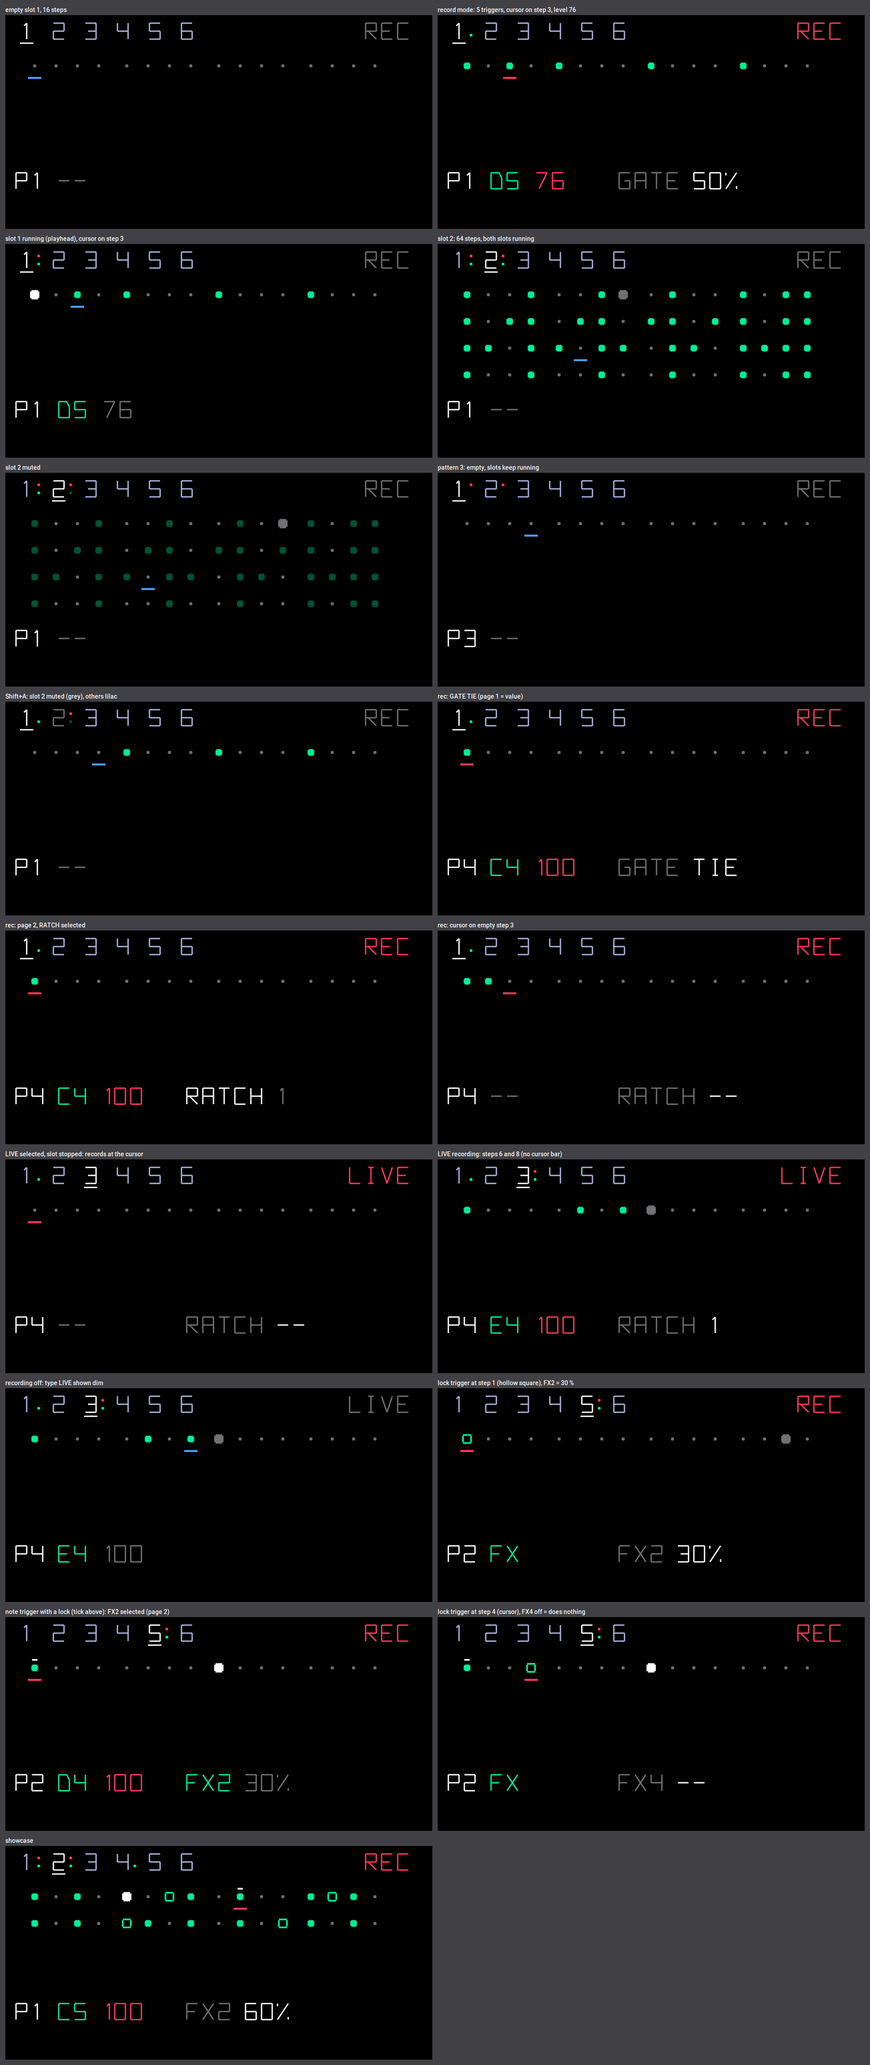
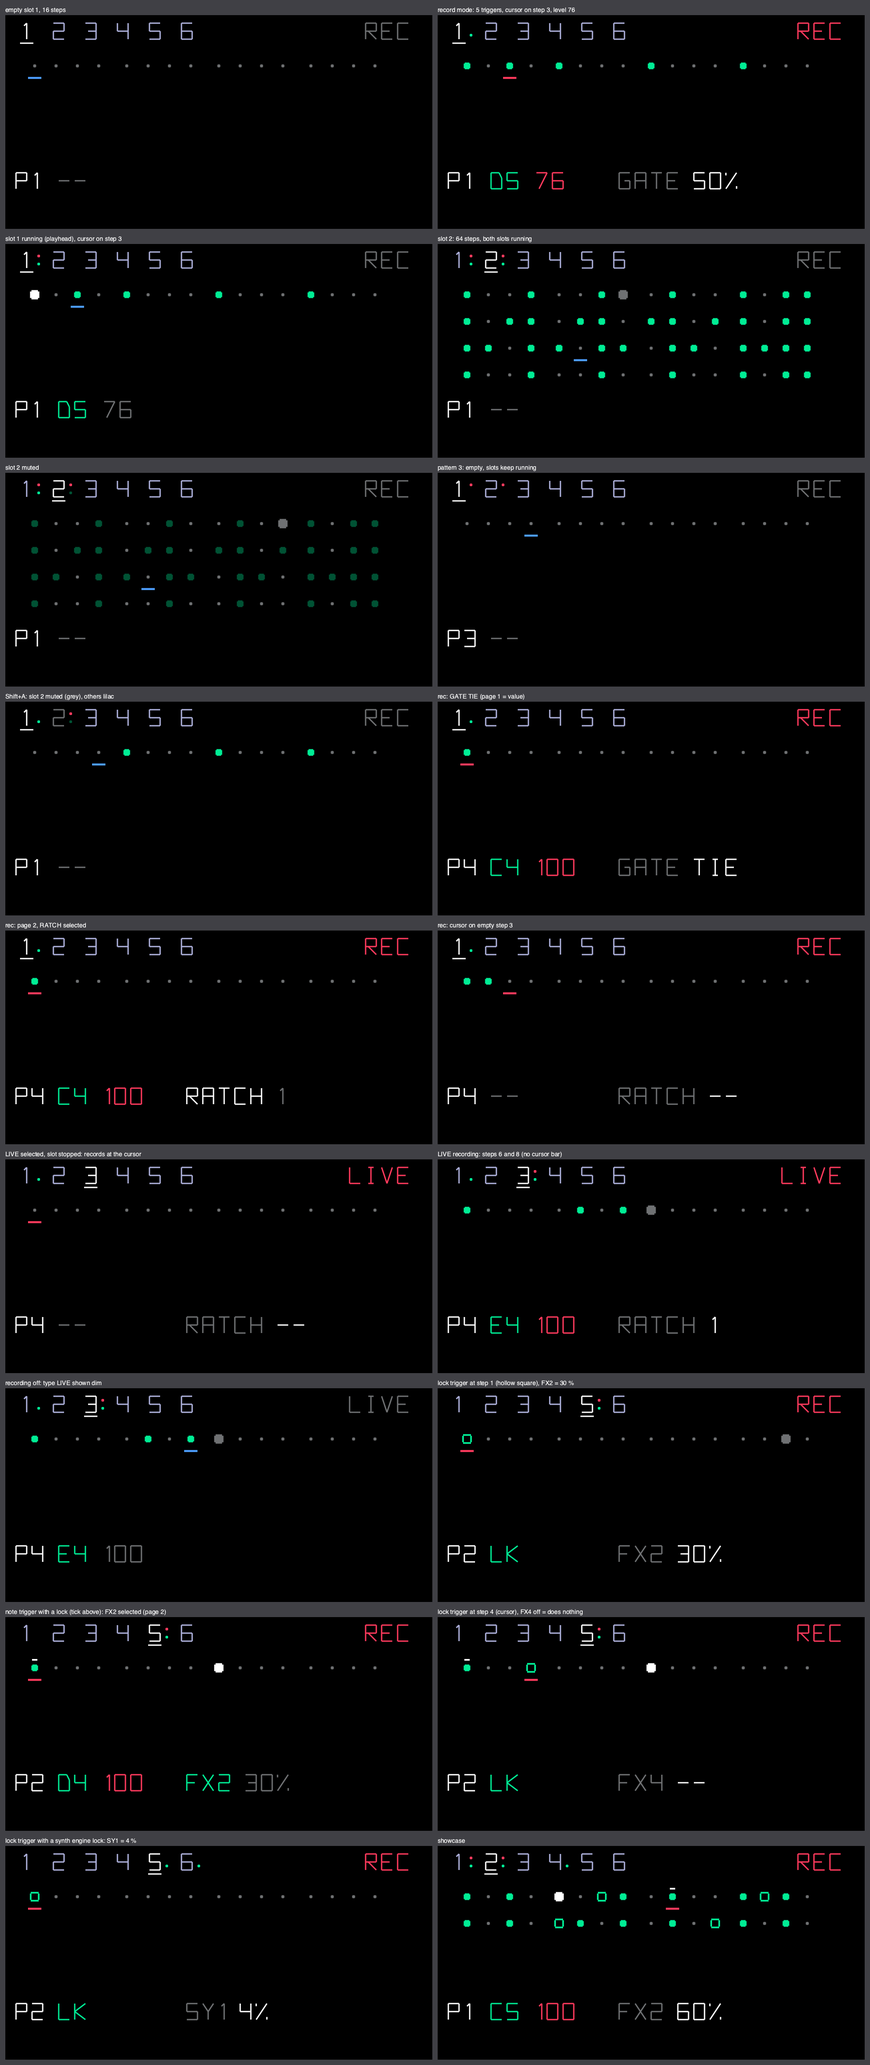
dots: synth engine parameter locks (SY1-SY4)
SY1-SY4 in the white parameter list set knob 1-4 of the instrument's synth
engine for a step, like the FX locks (synth mode only). Only the live knob
word is written, never the patch; sample start / end knobs are skipped.
Saved in a separate text (S1), older saves load unchanged. The info line of
a lock trigger shows LK instead of FX.

Changed region(s): [[0.499, 0.8693, 0.998, 1.0], [0.2807, 0.9625, 0.3119, 0.9935], [0.0312, 0.9004, 0.0624, 0.9314]]

diff --git a/synth_sdk/seq/dots.c b/synth_sdk/seq/dots.c
@@ -31,6 +31,8 @@
  *   fx1..4  parameter locks: -- (off, default) or 0..100 % for knob 1..4 (blue..red) of the mode's instrument FX.
  *           When the step plays (chance / cond / nudge apply) the knob jumps to the value; it reverts to the knob's own
  *           setting after the gate (% of a step; TIE: until the slot's next trigger). Last lock wins a shared knob.
+ *   sy1..4  the same for knob 1..4 of the synth engine of the instrument (synth mode only; not in drum mode). Knobs of
+ *           an engine without a plain range (sample start / end) are not locked.
  * Lock triggers (no note): blue press in record mode on an empty step creates one (all locks off = does nothing
  * until a lock is set), on a lock trigger removes it. A key on a lock trigger adds a note and keeps the locks.
  * New triggers get the defaults (50 %, 1, 100 %, ALL, 0, OFF); recording over a trigger only changes its note.
@@ -47,13 +49,17 @@
 #define DT_TIE      101                                 /* gate value: hold until the next note */
 #define DT_NONOTE   0xFF                                /* note of a lock trigger (no note) */
 #define DT_NFX      4                                   /* locks: instrument FX knobs 1..4 */
-enum { DT_P_GATE, DT_P_RATCH, DT_P_CHANCE, DT_P_COND, DT_P_NUDGE, DT_P_RAMP, DT_P_FX1, DT_NPARAMS = DT_P_FX1 + DT_NFX };
+#define DT_NSY      4                                   /* locks: synth engine knobs 1..4 (synth mode) */
+#define DT_NLK      (DT_NFX + DT_NSY)                   /* lock index: 0..3 FX, 4..7 synth engine */
+enum { DT_P_GATE, DT_P_RATCH, DT_P_CHANCE, DT_P_COND, DT_P_NUDGE, DT_P_RAMP, DT_P_FX1, DT_P_SY1 = DT_P_FX1 + DT_NFX,
+       DT_NPARAMS = DT_P_SY1 + DT_NSY };
+#define DT_NPAR(pos) ((pos) ? DT_P_SY1 : DT_NPARAMS)    /* drum mode has no synth engine */
 static const uint8_t dt_cond_ab[10][2] = { {0,0}, {1,2}, {2,2}, {1,3}, {2,3}, {3,3}, {1,4}, {2,4}, {3,4}, {4,4} };
 
 typedef struct {                                        /* vel 0 = no trigger */
     uint8_t note, key, vel, gate, ratch, chance, cond;
     int8_t  nudge, ramp;
-    uint8_t fx[DT_NFX];                                 /* 0 = off, 1..101 = 0..100 % */
+    uint8_t fx[DT_NLK];                                 /* 0 = off, 1..101 = 0..100 % */
 } dt_step_t;
 #define DT_STEP_BYTES 9                                 /* saved fields of the step row (locks: own row) */
 typedef struct {
@@ -63,7 +69,7 @@ typedef struct {
 typedef struct {                                        /* a decided step: its hits, in time order */
     uint8_t  on, ratch, j, note, key, vel, gate;        /* j: next hit */
     int8_t   ramp;
-    uint8_t  fx[DT_NFX];
+    uint8_t  fx[DT_NLK];
     int32_t  s;                                         /* step (counted from start) */
     uint64_t t0, sub;                                   /* first hit, hit spacing (Q16 ticks) */
 } dt_plan_t;
@@ -101,7 +107,7 @@ void host_dt_note_on(int pos, int note, int vel);
 void host_dt_note_off(int pos, int note);
 #define DT_NOTE_ON(pos, n, k, v) (host_dt_note_on((pos), (n), (v)), (n))
 #define DT_NOTE_OFF(pos, n)      host_dt_note_off((pos), (n))
-void host_dt_fx_lock(int pos, int knob, int pc);
+void host_dt_fx_lock(int pos, int knob, int pc);       /* knob: lock index 0..7 */
 void host_dt_fx_restore(int pos, int knob);
 #define DT_FX_LOCK(pos, k, pc)   host_dt_fx_lock((pos), (k), (pc))
 #define DT_FX_RESTORE(pos, k)    host_dt_fx_restore((pos), (k))
@@ -123,7 +129,7 @@ static dt_cfg_t *dt_q(dt_bank_t *b, int k) { return &b->pats[b->pat][k]; }
 static void dt_step_default(dt_step_t *s)
 {
     s->gate = 50; s->ratch = 1; s->chance = 100; s->cond = 0; s->nudge = 0; s->ramp = 0;
-    for (int i = 0; i < DT_NFX; i++) s->fx[i] = 0;
+    for (int i = 0; i < DT_NLK; i++) s->fx[i] = 0;
 }
 /* byte loops instead of struct copies: the firmware build has no memcpy / memset */
 static void dt_cfg_copy(dt_cfg_t *d, const dt_cfg_t *c)
@@ -148,17 +154,17 @@ static void dt_bank_init(dt_bank_t *b)
 }
 
 /* locks: the knob owner per mode (slot + 1); the base value is kept by the glue until the owner reverts */
-static uint8_t dt_lk_owner[2][DT_NFX];
+static uint8_t dt_lk_owner[2][DT_NLK];
 static void dt_unlock(int pos, int slot, dt_run_t *r)
 {
-    for (int i = 0; i < DT_NFX; i++)
+    for (int i = 0; i < DT_NLK; i++)
         if (r->locks >> i & 1 && dt_lk_owner[pos][i] == slot + 1) { DT_FX_RESTORE(pos, i); dt_lk_owner[pos][i] = 0; }
     r->locks = 0;
 }
 static void dt_lock(int pos, int slot, dt_run_t *r, const uint8_t *fx)
 {
-    for (int i = 0; i < DT_NFX; i++)
-        if (fx[i]) { DT_FX_LOCK(pos, i, fx[i] - 1); dt_lk_owner[pos][i] = (uint8_t)(slot + 1); r->locks |= (uint8_t)(1 << i); }
+    for (int i = 0; i < DT_NLK; i++)
+        if (fx[i] && !(pos && i >= DT_NFX)) { DT_FX_LOCK(pos, i, fx[i] - 1); dt_lk_owner[pos][i] = (uint8_t)(slot + 1); r->locks |= (uint8_t)(1 << i); }
 }
 static int dt_slot_of(int pos, const dt_run_t *r) { return (int)(r - dt[pos & 1].rt); }
 
@@ -222,7 +228,7 @@ static void dt_param_turn(dt_step_t *s, int par, int st)
     case DT_P_COND:   s->cond = (uint8_t)dt_clampi(s->cond + st, 0, 9); break;
     case DT_P_NUDGE:  s->nudge = (int8_t)dt_clampi(s->nudge + st, -12, 12); break;
     case DT_P_RAMP:   s->ramp = (int8_t)dt_clampi(s->ramp + st, -1, 1); break;
-    default: {                                          /* fx lock: off below 0 %, 2 % per detent */
+    default: {                                          /* fx / synth lock: off below 0 %, 2 % per detent */
         uint8_t *v = &s->fx[par - DT_P_FX1];
         int pc = *v ? *v - 1 : -1;
         pc = pc < 0 ? (st > 0 ? (st - 1) * 2 : -1) : pc + st * 2;
@@ -287,7 +293,7 @@ void dt_turn(int pos, int knob, int delta, int shift)
     }
     if (knob == 2) {                                    /* white, record mode: parameter value / selection */
         if (!b->rec) return;
-        if (b->page) { b->par = (uint8_t)((b->par + st % DT_NPARAMS + DT_NPARAMS) % DT_NPARAMS); return; }
+        if (b->page) { int n = DT_NPAR(pos & 1); b->par = (uint8_t)((b->par + st % n + n) % n); return; }
         dt_step_t *s = &q->st[b->cur[k]];
         if (s->vel) { dt_param_turn(s, b->par, st); DT_CHANGED(); }
         return;
@@ -433,8 +439,9 @@ void dt_clip(int pos, int op, int all)
 /* ---- persistence: one hex text per (mode, pattern): "v2" "pp ss" (current pattern, selected slot), then per slot
  * "len muted" + 64 steps x 9 fields (note key vel gate ratch chance cond nudge ramp, 2 hex digits each; "v2").
  * Old texts (no prefix, 3 fields: note key vel) still load with default parameters.
- * Parameter locks are a second text per (mode, pattern): "L1" + 6 slots x 64 steps x fx1..fx4 (3074 chars): the firmware
- * formats every SQL statement into an 8 KB buffer (db2.cpp, te_vsnprintf 0x2000), one text with both is too long. ---- */
+ * Parameter locks are a second text per (mode, pattern): "L1" + 6 slots x 64 steps x fx1..fx4 (3074 chars), the synth
+ * locks a third: "S1" + the same x sy1..sy4. The firmware formats every SQL statement into an 8 KB buffer (db2.cpp,
+ * te_vsnprintf 0x2000), one text with all of them is too long. ---- */
 #define DT_TEXT1_LEN (4 + DT_SLOTS * (4 + DT_STEPS * 6))
 #define DT_TEXT_LEN  (2 + 4 + DT_SLOTS * (4 + DT_STEPS * DT_STEP_BYTES * 2))
 #define DT_LOCK_LEN  (2 + DT_SLOTS * DT_STEPS * DT_NFX * 2)
@@ -495,27 +502,31 @@ int dt_parse(int pos, int p, const char *s, int len)    /* 0 = rejected (wrong s
     return 1;
 }
 
-int dt_serialize_locks(int pos, int p, char *out)       /* out: DT_LOCK_LEN + 1 */
+static int dt_ser_locks(int pos, int p, char *out, int f0, char tag)
 {
     dt_bank_t *b = &dt[pos & 1]; dt_bank_init(b);
-    char *o = out; *o++ = 'L'; *o++ = '1';
+    char *o = out; *o++ = tag; *o++ = '1';
     for (int k = 0; k < DT_SLOTS; k++)
         for (int i = 0; i < DT_STEPS; i++)
-            for (int f = 0; f < DT_NFX; f++) o = dt_hex(o, b->pats[p][k].st[i].fx[f]);
+            for (int f = f0; f < f0 + DT_NFX; f++) o = dt_hex(o, b->pats[p][k].st[i].fx[f]);
     *o = 0;
     return (int)(o - out);
 }
-int dt_parse_locks(int pos, int p, const char *s, int len)   /* after dt_parse of the same pattern */
+static int dt_parse_lk(int pos, int p, const char *s, int len, int f0, char tag)   /* after dt_parse of the same pattern */
 {
-    if (len != DT_LOCK_LEN || s[0] != 'L' || s[1] != '1' || p < 0 || p >= DT_PATS) return 0;
+    if (len != DT_LOCK_LEN || s[0] != tag || s[1] != '1' || p < 0 || p >= DT_PATS) return 0;
     for (int i = 2; i < len; i += 2) if (dt_unhex(s + i) < 0) return 0;
     dt_bank_t *b = &dt[pos & 1]; dt_bank_init(b);
     s += 2;
     for (int k = 0; k < DT_SLOTS; k++)
         for (int i = 0; i < DT_STEPS; i++)
-            for (int f = 0; f < DT_NFX; f++, s += 2) b->pats[p][k].st[i].fx[f] = (uint8_t)dt_clampi(dt_unhex(s), 0, 101);
+            for (int f = f0; f < f0 + DT_NFX; f++, s += 2) b->pats[p][k].st[i].fx[f] = (uint8_t)dt_clampi(dt_unhex(s), 0, 101);
     return 1;
 }
+int dt_serialize_locks(int pos, int p, char *out) { return dt_ser_locks(pos, p, out, 0, 'L'); }      /* out: DT_LOCK_LEN + 1 */
+int dt_parse_locks(int pos, int p, const char *s, int len) { return dt_parse_lk(pos, p, s, len, 0, 'L'); }
+int dt_serialize_sy(int pos, int p, char *out) { return dt_ser_locks(pos, p, out, DT_NFX, 'S'); }
+int dt_parse_sy(int pos, int p, const char *s, int len) { return dt_parse_lk(pos, p, s, len, DT_NFX, 'S'); }
 
 /* ---- clock: advance by inc ticks (Q16, 24 per beat) ----
  * Each step is decided half a step before its grid time (nudge reaches half a step early): cond (loop of the slot),
@@ -538,7 +549,7 @@ static void dt_decide(dt_run_t *r, const dt_cfg_t *q, int32_t s, uint64_t grid)
     p->t0 = t0 < 0 ? 0 : (uint64_t)t0; p->sub = L / t->ratch;
     p->ratch = t->ratch; p->j = 0; p->note = t->note; p->key = t->key; p->vel = t->vel; p->gate = t->gate;
     p->ramp = t->ramp; p->s = s; p->on = 1;
-    for (int i = 0; i < DT_NFX; i++) p->fx[i] = t->fx[i];
+    for (int i = 0; i < DT_NLK; i++) p->fx[i] = t->fx[i];
 }
 
 static void dt_advance(int pos, uint64_t inc)
@@ -645,7 +656,7 @@ static void dt_screen_draw(void *r, int pos)
         const dt_step_t *s = &q->st[i];
         int32_t x = dt_x(i), y = dt_y(i);
         int lk = s->vel && s->note == DT_NONOTE, any = 0;
-        for (int f = 0; f < DT_NFX; f++) any |= s->fx[f];
+        for (int f = 0; f < DT_NLK; f++) any |= s->fx[f];
         const uint8_t *c = q->muted ? dt_dimgreen : dt_green;
         if (i == play) c = s->vel && !q->muted ? dt_white : dt_grey;
         if (lk) {                                       /* lock trigger: hollow square */
@@ -665,7 +676,7 @@ static void dt_screen_draw(void *r, int pos)
     sf_text(r, OP1_Q10(DT_PAT_X), OP1_Q10(DT_INFO_Y), OP1_Q10(2), t, 0x400, dt_white);
     const dt_step_t *s = &q->st[b->cur[k]];
     int lks = s->vel && s->note == DT_NONOTE;
-    if (lks) { t[0] = 'F'; t[1] = 'X'; t[2] = 0; }
+    if (lks) { t[0] = 'L'; t[1] = 'K'; t[2] = 0; }
     else if (s->vel) dnote(t, s->note); else { t[0] = '-'; t[1] = '-'; t[2] = 0; }
     int32_t nx = sf_text(r, OP1_Q10(DT_NOTE_X), OP1_Q10(DT_INFO_Y), OP1_Q10(2), t, 0x400, s->vel ? dt_green : dt_grey);
     if (s->vel && !lks) { dnum(t, s->vel); sf_text(r, nx + OP1_Q10(10), OP1_Q10(DT_INFO_Y), OP1_Q10(2), t, 0x400, b->rec ? dt_col[3] : dt_grey); }
@@ -676,10 +687,10 @@ static void dt_screen_draw(void *r, int pos)
         sf_text(r, OP1_Q10(b->live ? DT_REC_X - 12 : DT_REC_X), OP1_Q10(DT_SLOT_Y), OP1_Q10(2),
                 b->live ? "LIVE" : "REC", 0x400, dt_col[3]);
         static const char *const names[DT_NPARAMS] = { "GATE", "RATCH", "CHANCE", "COND", "NUDGE", "RAMP",
-                                                       "FX1", "FX2", "FX3", "FX4" };
-        int fxp = b->par >= DT_P_FX1;                   /* fx names in their knob colour on page 2 */
+                                                       "FX1", "FX2", "FX3", "FX4", "SY1", "SY2", "SY3", "SY4" };
+        int fxp = b->par >= DT_P_FX1;                   /* lock names in their knob colour on page 2 */
         int32_t px = sf_text(r, OP1_Q10(DT_PAR_X), OP1_Q10(DT_INFO_Y), OP1_Q10(2), names[b->par], 0x400,
-                             b->page ? (fxp ? dt_col[b->par - DT_P_FX1] : dt_white) : dt_grey);
+                             b->page ? (fxp ? dt_col[(b->par - DT_P_FX1) & 3] : dt_white) : dt_grey);
         char *e = t; t[0] = '-'; t[1] = '-'; t[2] = 0;
         if (s->vel) switch (b->par) {
             case DT_P_GATE:   if (s->gate == DT_TIE) { t[0] = 'T'; t[1] = 'I'; t[2] = 'E'; t[3] = 0; }
@@ -736,24 +747,48 @@ extern volatile uint8_t eu_rec_play;                    /* seq/euclid.c, handled
 #define DT_DRUM_OCT()  (((const int *)0x01DFE500)[*(volatile int *)0xFF8016D8 & 7])
 /* parameter locks on the instrument FX of the mode (docs/17): knob words synth 0xFF801444 / drum 0xFF8015C4 + slot*16,
  * FX type synth 0xFF801734[slot] / drum 0xFF801754[slot], raw range per type/knob in the table 0x01DE5C50 + type*0x30 +
- * knob*6 {min, max, ?} (filled at boot; read_fx_param asserts outside it, so values always stay in [min, max]). */
-static int16_t *dt_lk_ptr[2][DT_NFX];
-static int16_t  dt_lk_base[2][DT_NFX];
+ * knob*6 {min, max, ?} (filled at boot; read_fx_param asserts outside it, so values always stay in [min, max]).
+ * Synth engine locks (lock index 4..7, synth mode): knob words 0xFF8013C4 + slot*16, engine 0xFF8016E4[slot], range
+ * 0x01DE5890 + engine*0x40 + knob*8 {min, max, scale, mode} (as midi/mx.c; mode 2 / 3 = linked sample start / end:
+ * not locked). Only the live word is written, not the patch (set_knobs), so a lock is never saved with the sound;
+ * the base is restored the same way. The words are reloaded from the patch on an instrument switch. */
+static int16_t *dt_lk_ptr[2][DT_NLK];
+static int16_t  dt_lk_base[2][DT_NLK];
+static int      dt_lk_eng[DT_NSY], dt_lk_slot[DT_NSY];  /* engine / slot of the synth word when its base was taken */
 static void dt_fw_fx_lock(int pos, int knob, int pc)
 {
     int slot = *(volatile int *)(pos ? 0xFF8016D8 : 0xFF8016D4) & 7;
-    int type = ((volatile int *)(pos ? 0xFF801754 : 0xFF801734))[slot];
-    if (type < 0 || type > 7) return;
-    const int16_t *rg = (const int16_t *)(0x01DE5C50 + type * 0x30 + knob * 6);
-    int lo = rg[0], hi = rg[1];
+    int16_t *w; int lo, hi, eng = 0;
+    if (knob >= DT_NFX) {                               /* synth engine knob */
+        if (pos) return;
+        eng = ((volatile int *)0xFF8016E4)[slot];
+        if (eng < 0 || eng > 31) return;
+        const int16_t *rg = (const int16_t *)(0x01DE5890 + eng * 0x40 + (knob - DT_NFX) * 8);
+        if (rg[3] != 0 && rg[3] != 1) return;
+        lo = rg[0]; hi = rg[1];
+        w = (int16_t *)(0xFF8013C4 + slot * 16) + (knob - DT_NFX);
+    } else {
+        int type = ((volatile int *)(pos ? 0xFF801754 : 0xFF801734))[slot];
+        if (type < 0 || type > 7) return;
+        const int16_t *rg = (const int16_t *)(0x01DE5C50 + type * 0x30 + knob * 6);
+        lo = rg[0]; hi = rg[1];
+        w = (int16_t *)((pos ? 0xFF8015C4 : 0xFF801444) + slot * 16) + knob;
+    }
     if (hi <= lo) return;                               /* table not filled */
-    int16_t *w = (int16_t *)((pos ? 0xFF8015C4 : 0xFF801444) + slot * 16) + knob;
-    if (!dt_lk_ptr[pos][knob]) { dt_lk_ptr[pos][knob] = w; dt_lk_base[pos][knob] = *w; }   /* first lock: keep base */
+    if (dt_lk_ptr[pos][knob] && (dt_lk_ptr[pos][knob] != w || (knob >= DT_NFX && dt_lk_eng[knob - DT_NFX] != eng)))
+        dt_lk_ptr[pos][knob] = 0;                       /* another slot / engine since: the old base is stale */
+    if (!dt_lk_ptr[pos][knob]) {                        /* first lock: keep base */
+        dt_lk_ptr[pos][knob] = w; dt_lk_base[pos][knob] = *w;
+        if (knob >= DT_NFX) { dt_lk_eng[knob - DT_NFX] = eng; dt_lk_slot[knob - DT_NFX] = slot; }
+    }
     *w = (int16_t)(lo + (hi - lo) * pc / 100);
 }
 static void dt_fw_fx_restore(int pos, int knob)
 {
-    if (dt_lk_ptr[pos][knob]) { *dt_lk_ptr[pos][knob] = dt_lk_base[pos][knob]; dt_lk_ptr[pos][knob] = 0; }
+    if (!dt_lk_ptr[pos][knob]) return;
+    if (knob < DT_NFX || ((volatile int *)0xFF8016E4)[dt_lk_slot[knob - DT_NFX]] == dt_lk_eng[knob - DT_NFX])
+        *dt_lk_ptr[pos][knob] = dt_lk_base[pos][knob];  /* (the engine of that slot changed meanwhile: base no longer valid) */
+    dt_lk_ptr[pos][knob] = 0;
 }
 
 static int dt_nop(void *self) { (void)self; return 0; }
@@ -800,14 +835,15 @@ static void dt_bg_save(void *self)                      /* saver thread */
     (void)self;
     void *db = DT_DB_HANDLE();
     DT_DB_EXEC(db, DT_CREATE);
-    for (int id = 0; id < 4 * DT_PATS; id++) {          /* id = mode * 4 + pattern (steps), + 8 (locks) */
+    for (int id = 0; id < 6 * DT_PATS; id++) {          /* id = mode * 4 + pattern (steps), + 8 (fx locks), + 16 (synth locks) */
         static const char head[] = "INSERT OR REPLACE INTO dotsseq VALUES (";
         char *o = dt_sql;
         for (const char *h = head; *h; h++) *o++ = *h;
-        if (id >= 10) *o++ = '1';
+        if (id >= 10) *o++ = (char)('0' + id / 10);
         *o++ = (char)('0' + id % 10); *o++ = ','; *o++ = '\'';
         int m = id % (2 * DT_PATS);
-        o += id < 2 * DT_PATS ? dt_serialize(m / DT_PATS, m % DT_PATS, o) : dt_serialize_locks(m / DT_PATS, m % DT_PATS, o);
+        o += id < 2 * DT_PATS ? dt_serialize(m / DT_PATS, m % DT_PATS, o)
+           : id < 4 * DT_PATS ? dt_serialize_locks(m / DT_PATS, m % DT_PATS, o) : dt_serialize_sy(m / DT_PATS, m % DT_PATS, o);
         *o++ = '\''; *o++ = ')'; *o = 0;
         op1_db_write(db, dt_sql);                       /* (no assert: long statement, docs/17) */
     }
@@ -820,7 +856,7 @@ static void dt_load(void)
 {
     void *db = DT_DB_HANDLE();
     DT_DB_EXEC(db, DT_CREATE);
-    for (int id = 0; id < 4 * DT_PATS; id++) {          /* steps first (ids 0..7), then their locks (8..15) */
+    for (int id = 0; id < 6 * DT_PATS; id++) {          /* steps first (ids 0..7), then their locks (8..15, 16..23) */
         static char q[] = "SELECT data FROM dotsseq WHERE id=00";
         q[sizeof q - 3] = (char)('0' + id / 10); q[sizeof q - 2] = (char)('0' + id % 10);
         dt_dstr s = { 0 };
@@ -829,7 +865,8 @@ static void dt_load(void)
         int m = id % (2 * DT_PATS);
         if (s.size) {                                   /* (heap copy, once per boot, not freed) */
             if (id < 2 * DT_PATS) dt_parse(m / DT_PATS, m % DT_PATS, p, (int)s.size);
-            else dt_parse_locks(m / DT_PATS, m % DT_PATS, p, (int)s.size);
+            else if (id < 4 * DT_PATS) dt_parse_locks(m / DT_PATS, m % DT_PATS, p, (int)s.size);
+            else dt_parse_sy(m / DT_PATS, m % DT_PATS, p, (int)s.size);
         }
     }
     DT_BG_REGISTER(&dt_bg);

diff --git a/synth_sdk/harness/dots_test.c b/synth_sdk/harness/dots_test.c
@@ -13,7 +13,7 @@ volatile uint8_t op1_fx_page[3][4];
 static int n_on, n_off, last_on, last_vel, active; static long now, last_on_at;
 void host_dt_note_on(int pos, int n, int v) { (void)pos; n_on++; last_on = n; last_vel = v; active++; last_on_at = now; }
 void host_dt_note_off(int pos, int n) { (void)pos; (void)n; n_off++; active--; }
-static int fx_val[2][4] = { { -1, -1, -1, -1 }, { -1, -1, -1, -1 } }, n_lock; static long lock_at, restore_at;   /* -1 = base */
+static int fx_val[2][DT_NLK] = { { -1, -1, -1, -1, -1, -1, -1, -1 }, { -1, -1, -1, -1, -1, -1, -1, -1 } }, n_lock; static long lock_at, restore_at;   /* -1 = base */
 void host_dt_fx_lock(int pos, int k, int pc) { fx_val[pos][k] = pc; n_lock++; lock_at = now; }
 void host_dt_fx_restore(int pos, int k) { fx_val[pos][k] = -1; restore_at = now; }
 
@@ -313,7 +313,36 @@ int main(int argc, char **argv)
         dt_parse(0, 1, t3, DT_TEXT_LEN);
         CHECK(!dt_q(b, 4)->st[0].fx[1], "steps row alone: no locks");
         CHECK(!dt_parse_locks(0, 1, tl, DT_LOCK_LEN - 2), "short lock text rejected");
-        b->rec = 0;
+        /* synth engine locks: sy1..4 follow fx1..4 in the parameter list, synth mode only */
+        dt_cfg_clear(dt_q(b, 4), 16); b->cur[4] = 0; b->page = 1; b->par = DT_P_FX1 + 3;
+        dt_press(0, 0); s0 = &dt_q(b, 4)->st[0];
+        turn(2, 1, 0); CHECK(b->par == DT_P_SY1, "white page 2: fx4 -> sy1 (%d)", b->par);
+        b->page = 0; turn(2, 3, 0);                     /* sy1: off -> 0 %, then 4 % */
+        CHECK(s0->fx[DT_NFX] == 5 && !s0->fx[0], "sy1 sets lock index 4 only (%d)", s0->fx[DT_NFX]);
+        b->page = 1; b->par = DT_P_SY1 + DT_NSY - 1; turn(2, 1, 0); CHECK(b->par == DT_P_GATE, "synth list wraps after sy4");
+        b->par = DT_P_SY1; b->page = 0;
+        if (render) frame("lock trigger with a synth engine lock: SY1 = 4 %");
+        for (int k = 0; k < DT_SLOTS; k++) dt_halt(0, &b->rt[k]);
+        fx_val[0][DT_NFX] = -1; n_lock = 0; dt_start(b, &b->rt[4], dt_next_step(b)); run(step / 4);
+        CHECK(fx_val[0][DT_NFX] == 4 && fx_val[0][0] == -1 && n_lock == 1, "sy1 lock applied to lock index 4 (%d %d)", fx_val[0][DT_NFX], n_lock);
+        run(step); CHECK(fx_val[0][DT_NFX] == -1, "sy1 reverts after the gate");
+        dt_halt(0, &b->rt[4]);
+        static char ts[DT_LOCK_LEN + 1];
+        CHECK(dt_serialize_sy(0, 1, ts) == DT_LOCK_LEN && ts[0] == 'S' && 64 + DT_LOCK_LEN < 0x2000, "sy text length");
+        CHECK(dt_serialize_locks(0, 1, tl) == DT_LOCK_LEN && !dt_parse_sy(0, 1, tl, DT_LOCK_LEN), "fx text is not an sy text");
+        dt_cfg_clear(dt_q(b, 4), 16);
+        CHECK(dt_parse_sy(0, 1, ts, DT_LOCK_LEN) && dt_q(b, 4)->st[0].fx[DT_NFX] == 5 && !dt_q(b, 4)->st[0].fx[0], "sy save / load");
+        CHECK(!dt_parse_sy(0, 1, ts, DT_LOCK_LEN - 2), "short sy text rejected");
+        {                                               /* drum mode: no synth locks (list and playback) */
+            dt_bank_t *d = &dt[1]; dt_bank_init(d); d->rec = 1; d->page = 1; d->par = DT_P_SY1 - 1;
+            dt_turn(1, 2, 1024, 0); CHECK(d->par == DT_P_GATE, "drum list ends at fx4 (%d)", d->par);
+            dt_cfg_clear(dt_q(d, 0), 16); dt_q(d, 0)->st[0].vel = 100; dt_q(d, 0)->st[0].note = DT_NONOTE; dt_q(d, 0)->st[0].fx[DT_NFX] = 51; dt_q(d, 0)->st[0].fx[1] = 21;
+            fx_val[1][DT_NFX] = fx_val[1][1] = -1;
+            dt_start(d, &d->rt[0], dt_next_step(d)); for (long t = 0; t < step * 5 / 4; t += 64) { dt_tick(1, 64, 12000); now += 64; }
+            CHECK(fx_val[1][DT_NFX] == -1 && fx_val[1][1] == 20, "drum ignores sy locks, fx lock plays (%d %d)", fx_val[1][DT_NFX], fx_val[1][1]);
+            dt_halt(1, &d->rt[0]); d->rec = 0; d->page = 0; d->par = 0;
+        }
+        b->rec = 0; b->page = 0; b->par = 0;
     }
 
     if (render) {                                       /* README screenshot: melody, lock triggers, a locked note, running */
